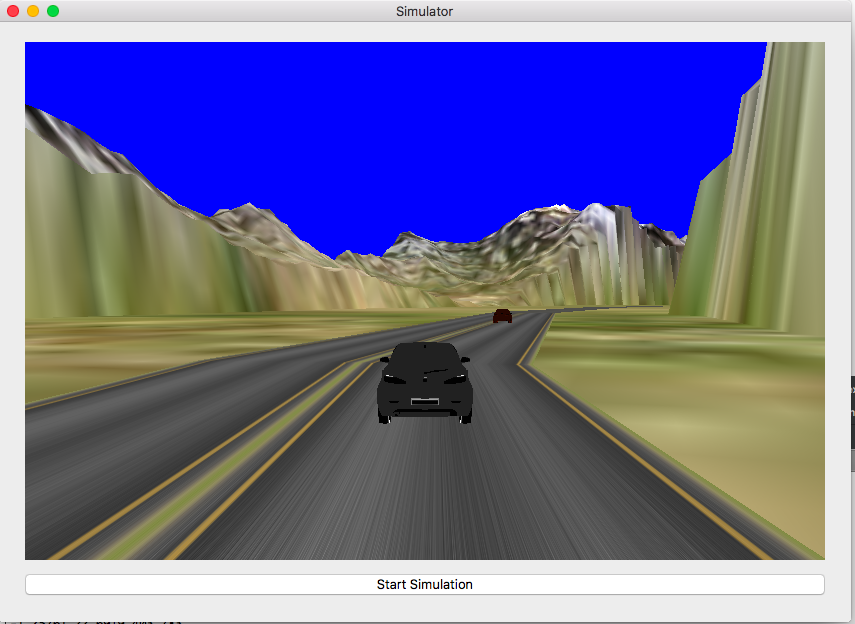
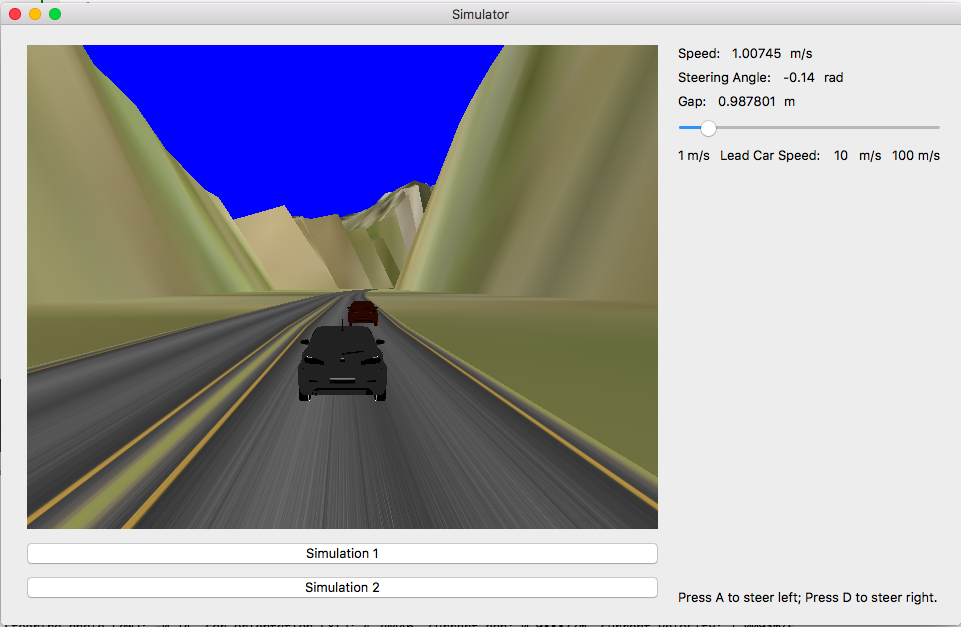
docs: update screenshot

diff --git a/adaptivecar.cpp b/adaptivecar.cpp
@@ -90,7 +90,7 @@ void AdaptiveCar::UpdateState2(double dt)
     // control
     double mass = 1000;
     double drag = 1;
-    double desired_gap = 0.5;
+    double desired_gap = 1;
     double k_p = (-3*mass)/(cos(dw_)*sin(xi_));
     double k_i = -mass/(cos(dw_)*sin(xi_));
     double k_d = (drag-3*mass)/(cos(dw_)*sin(xi_));
